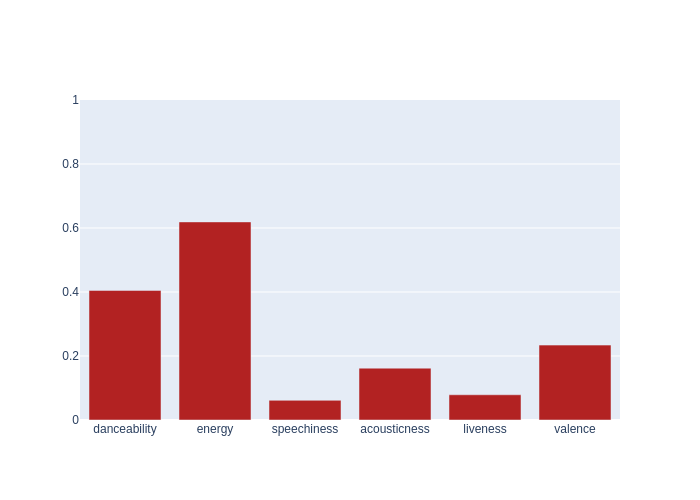
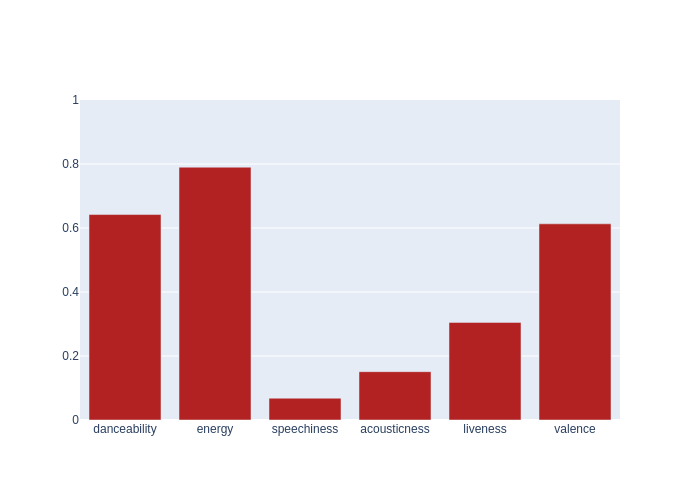
Automated README update

Changed region(s): [[0.51, 0.42, 0.87, 0.81], [0.12, 0.33, 0.36, 0.6], [0.39, 0.78, 0.48, 0.81]]

diff --git a/README.md b/README.md
@@ -4,7 +4,7 @@ Automated music metrics for fun, updated hourly.
 
 ## Spotify
 
-- currently listening to **The Weeknd - Professional**
+- currently listening to **The Weeknd - Adaptation**
 
 - **3099** liked songs
 - **32** playlists
